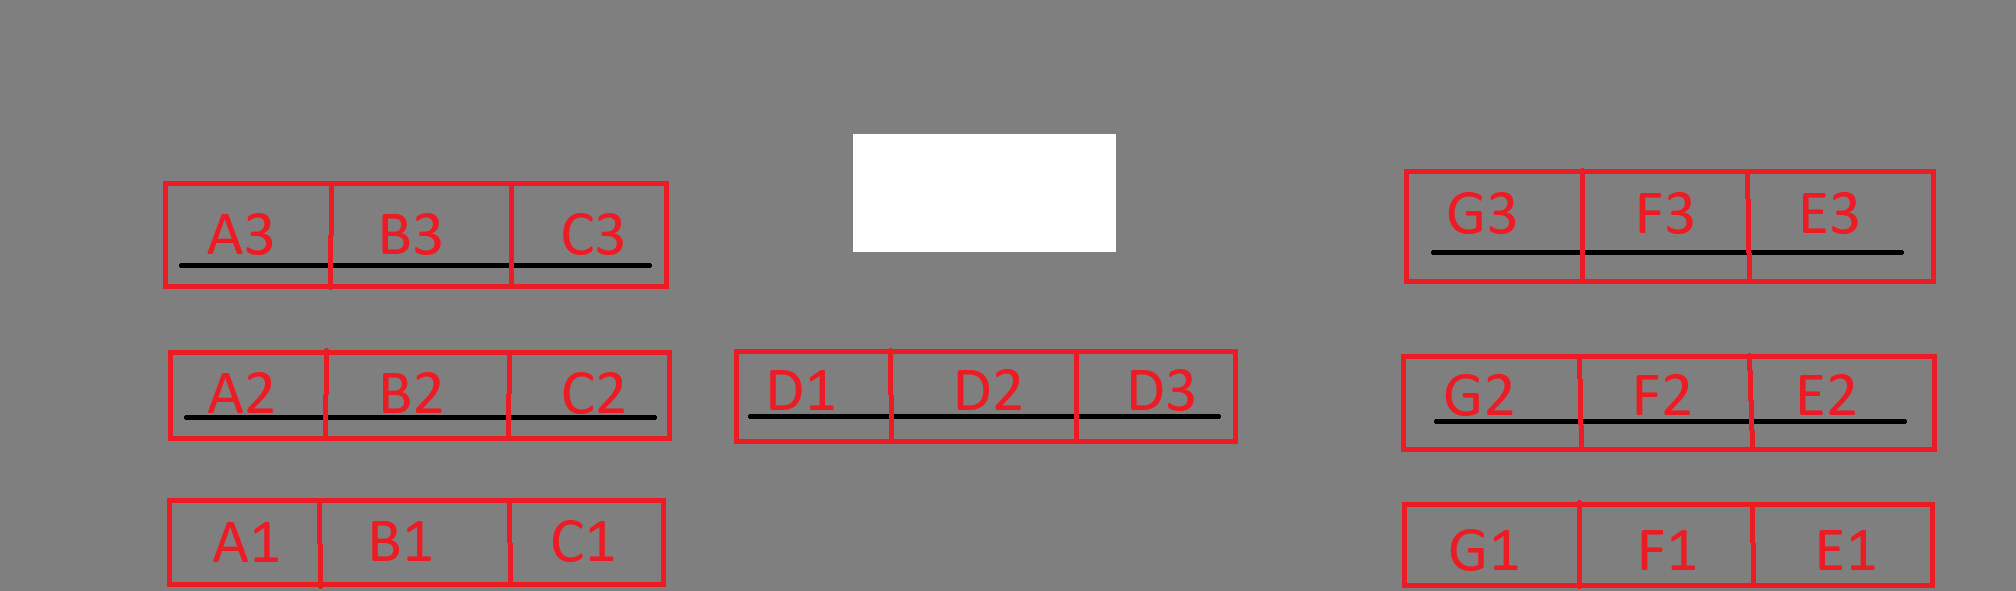
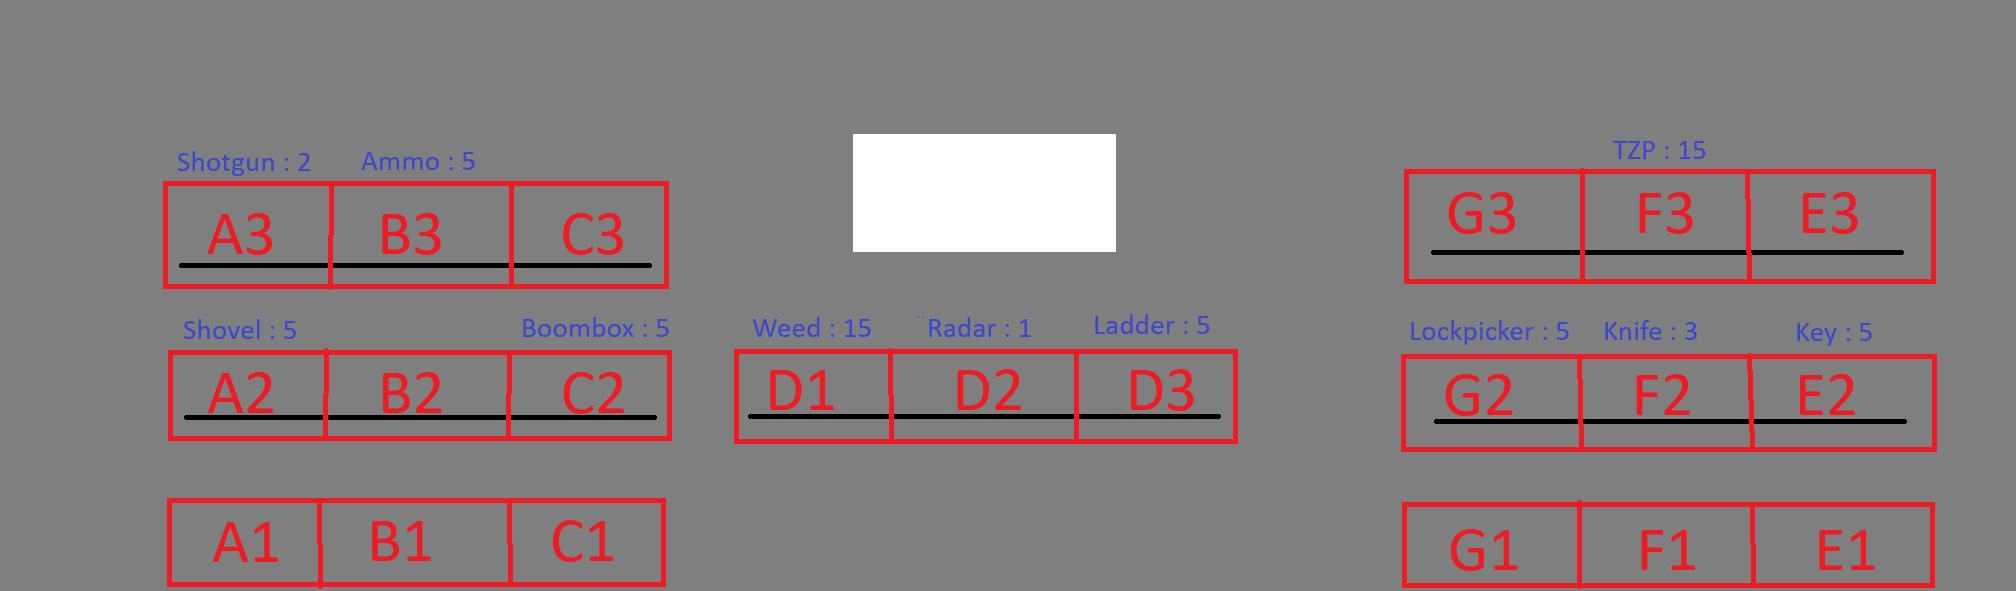
v0.0.7

diff --git a/Patches/CruiserZoneManager.cs b/Patches/CruiserZoneManager.cs
@@ -29,6 +29,17 @@ namespace CruiserLoader.Patches
             CruiserPositions.CreateZones();
             PopulateItemConfig();
             TranslateDictionaries();
+            
+            if (NetworkManager.Singleton != null && NetworkManager.Singleton.IsHost)
+            {
+                if (CruiserLoaderNetworkHandler.Instance == null)
+                {
+                    CruiserLoader.Log.LogInfo("Creating network handler on host...");
+                    GameObject handlerObj = new GameObject("CruiserLoaderNetworkHandler");
+                    UnityEngine.Object.DontDestroyOnLoad(handlerObj);
+                    handlerObj.AddComponent<CruiserLoaderNetworkHandler>();
+                }
+            }
         }
 
         internal static void PopulateItemConfig()
@@ -41,12 +52,22 @@ namespace CruiserLoader.Patches
         { "Kitchen knife",   "F2" },
         { "Shovel",          "A2" },
         { "Shotgun",         "A3" },
-        { "Ammo",            "C3" },
+        { "Ammo",            "B3" },
         { "Weed killer",     "D1" },
         { "Key",             "E2" },
-        { "Extension ladder","C2" },
+        { "Extension ladder","D3" },
         { "Lockpicker",      "G2" },
         { "TZP-Inhalant",    "F3" },
+        { "Boombox",         "C2" },
+    };
+
+            Dictionary<string, int> defaultCounts = new Dictionary<string, int>
+    {
+        { "Radar-booster",   1 },
+        { "Kitchen knife",   3 },
+        { "Shotgun",         2 },
+        { "Weed killer",     15 },
+        { "TZP-Inhalant",    15 },
     };
 
             foreach (Item item in allItemsList)
@@ -55,6 +76,7 @@ namespace CruiserLoader.Patches
                 if (item.itemName == "Binoculars" || item.itemName == "box" || item.itemName == "Mapper") continue;
 
                 string defaultZone = defaultZones.GetValueOrDefault(item.itemName, "");
+                int defaultCount = defaultCounts.GetValueOrDefault(item.itemName, 5);
 
                 ItemZoneConfig[item.itemName] = CruiserLoader.ItemZoneConfig.Bind(
                     "Items",
@@ -66,7 +88,7 @@ namespace CruiserLoader.Patches
                 ItemCountConfig[item.itemName] = CruiserLoader.ItemZoneConfig.Bind(
                     "ItemCounts",
                     item.itemName,
-                    1,
+                    defaultCount,
                     $"How many {item.itemName} to move to cruiser."
                 );
             }
@@ -100,7 +122,7 @@ namespace CruiserLoader.Patches
 
     internal static class CruiserZoneManager
     {
-        internal static void MoveItemsToCruiser(VehicleController cruiser, string? onlyItem = null, int overrideCount = -1)
+        internal static void MoveItemsToCruiser(VehicleController cruiser, string? onlyItem = null, int overrideCount = -1, string? overrideZone = null)
         {
             if (StartOfRound.Instance == null) return;
             var player = GameNetworkManager.Instance?.localPlayerController;
@@ -136,21 +158,30 @@ namespace CruiserLoader.Patches
                 if (!CruiserPositions.PositionsDictionary.TryGetValue(itemName, out Vector3 _)) continue;
 
                 int maxCount;
+                bool countIsMoveAmount = false;
                 if (overrideCount > 0)
+                {
                     maxCount = overrideCount;
+                    countIsMoveAmount = true;
+                }
                 else if (CruiserLoadPatch.ItemCountConfig.TryGetValue(itemName, out var countEntry))
                     maxCount = countEntry.Value;
                 else
                     maxCount = 1;
 
                 int currentlyInCruiser = alreadyInCruiser.GetValueOrDefault(itemName, 0);
-                int stillNeeded = maxCount - currentlyInCruiser;
+                int stillNeeded = countIsMoveAmount ? maxCount : maxCount - currentlyInCruiser;
                 if (stillNeeded <= 0) continue;
 
                 movedCount.TryGetValue(itemName, out int alreadyMoved);
                 if (alreadyMoved >= stillNeeded) continue;
 
-                string zoneName = CruiserLoadPatch.ItemZoneConfig[itemName].Value;
+                string zoneName;
+                if (overrideZone != null)
+                    zoneName = overrideZone;
+                else
+                    zoneName = CruiserLoadPatch.ItemZoneConfig[itemName].Value;
+                
                 Vector3 targetLocalPos = CruiserPositions.GetNextZonePosition(zoneName);
 
                 item.transform.SetParent(cruiser.transform, worldPositionStays: true);
@@ -187,7 +218,142 @@ namespace CruiserLoader.Patches
                 moved++;
             }
 
-            CruiserLoader.Log.LogInfo($"Moved {moved} items to cruiser.");
+            if (onlyItem != null && movedCount.TryGetValue(onlyItem, out int specificCount))
+            {
+                if (overrideZone != null)
+                {
+                    HUDManager.Instance.AddTextToChatOnServer($"[CL] Moved {specificCount} {onlyItem} to {overrideZone}.", -1);
+                    return;
+                }
+                else
+                {
+                    HUDManager.Instance.AddTextToChatOnServer($"[CL] Moved {specificCount} {onlyItem} to cruiser.", -1);
+                    return;
+                }
+            }
+
+            HUDManager.Instance.AddTextToChatOnServer($"[CL] Moved {moved} items to cruiser.", -1);
+        }
+    }
+
+    public class CruiserLoaderNetworkHandler : MonoBehaviour
+    {
+        internal static CruiserLoaderNetworkHandler? Instance { get; private set; }
+        private bool registered;
+
+        private void Awake()
+        {
+            if (Instance != null && Instance != this)
+            {
+                Destroy(gameObject);
+                return;
+            }
+
+            Instance = this;
+        }
+
+        private void OnEnable()
+        {
+            if (registered) return;
+            if (NetworkManager.Singleton == null)
+            {
+                CruiserLoader.Log.LogInfo("[CL] NetworkManager not ready.");
+                return;
+            }
+
+            if (NetworkManager.Singleton.IsHost && NetworkManager.Singleton.CustomMessagingManager != null)
+            {
+                NetworkManager.Singleton.CustomMessagingManager.RegisterNamedMessageHandler("CLC", OnHostCommandReceived);
+                registered = true;
+                CruiserLoader.Log.LogInfo("[CL] Registered CLC handler on host.");
+            }
+            else
+            {
+                CruiserLoader.Log.LogInfo("[CL] CMM unavailable or not host when enabling handler.");
+            }
+        }
+
+        private static void OnHostCommandReceived(ulong clientId, FastBufferReader reader)
+        {
+            if (!NetworkManager.Singleton.IsHost)
+            {
+                CruiserLoader.Log.LogInfo("[CL] Received CLC on non-host, ignoring.");
+                return;
+            }
+
+            reader.ReadValueSafe(out string command);
+            CruiserLoader.Log.LogInfo($"[CL] Received command from client {clientId}: {command}");
+
+            PlayerControllerB player = GameNetworkManager.Instance.localPlayerController;
+            if (player == null) return;
+
+            VehicleController cruiser = UnityEngine.Object.FindObjectOfType<VehicleController>();
+            if (cruiser == null)
+            {
+                CruiserLoader.Log.LogInfo("No cruiser found!");
+                return;
+            }
+
+            ExecuteCommandOnHost(command, player, cruiser);
+        }
+
+        private static void ExecuteCommandOnHost(string chatMessage, PlayerControllerB player, VehicleController cruiser)
+        {
+            string[] parts = chatMessage.Trim().Split(' ');
+
+            if (parts.Length == 1)
+            {
+                CruiserZoneManager.MoveItemsToCruiser(cruiser);
+            }
+            else if (parts.Length == 3)
+            {
+                string itemSearch = parts[1].ToLower();
+                if (!int.TryParse(parts[2], out int count) || count <= 0)
+                    return;
+
+                string? matchedName = null;
+                foreach (var key in CruiserLoadPatch.ItemZoneConfig.Keys)
+                {
+                    if (key.ToLower().Contains(itemSearch))
+                    {
+                        matchedName = key;
+                        break;
+                    }
+                }
+
+                if (matchedName == null)
+                    return;
+
+                CruiserZoneManager.MoveItemsToCruiser(cruiser, matchedName, count);
+            }
+            else if (parts.Length == 4)
+            {
+                string itemSearch = parts[1].ToLower();
+                if (!int.TryParse(parts[2], out int count) || count <= 0)
+                    return;
+
+                string overrideZone = parts[3].ToUpper();
+                if (!CruiserPositions.Zones.ContainsKey(overrideZone))
+                {
+                    HUDManager.Instance.AddTextToChatOnServer($"[CL] Invalid zone: {overrideZone}", -1);
+                    return;
+                }
+
+                string? matchedName = null;
+                foreach (var key in CruiserLoadPatch.ItemZoneConfig.Keys)
+                {
+                    if (key.ToLower().Contains(itemSearch))
+                    {
+                        matchedName = key;
+                        break;
+                    }
+                }
+
+                if (matchedName == null)
+                    return;
+
+                CruiserZoneManager.MoveItemsToCruiser(cruiser, matchedName, count, overrideZone);
+            }
         }
     }
 

diff --git a/Patches/ChatCommands.cs b/Patches/ChatCommands.cs
@@ -1,7 +1,9 @@
 using HarmonyLib;
 using GameNetcodeStuff;
+using Unity.Collections;
 using Unity.Netcode;
 using UnityEngine;
+using System.Collections;
 
 namespace CruiserLoader.Patches
 {
@@ -12,13 +14,7 @@ namespace CruiserLoader.Patches
         public static bool Prefix(string chatMessage)
         {
             if (string.IsNullOrEmpty(chatMessage)) return true;
-            if (!chatMessage.StartsWith("/cload")) return true;
-
-            if (!NetworkManager.Singleton.IsHost)
-            {
-                HUDManager.Instance.AddTextToChatOnServer("Only the host can use /cload.", -1);
-                return false;
-            }
+            if (!chatMessage.StartsWith(".cload")) return true;
 
             PlayerControllerB player = GameNetworkManager.Instance.localPlayerController;
             if (player == null) return false;
@@ -27,9 +23,33 @@ namespace CruiserLoader.Patches
             if (cruiser == null)
             {
                 CruiserLoader.Log.LogInfo("No cruiser found!");
+                HUDManager.Instance.AddTextToChatOnServer("[CL] Buy a cruiser first! BAKA!", -1);
                 return false;
             }
 
+            if (!NetworkManager.Singleton.IsHost)
+            {
+                if (NetworkManager.Singleton.CustomMessagingManager != null)
+                {
+                    using var writer = new FastBufferWriter(512, Allocator.Temp);
+                    writer.WriteValueSafe(chatMessage);
+                    CruiserLoader.Log.LogInfo($"Sending command to host: {chatMessage}");
+                    NetworkManager.Singleton.CustomMessagingManager.SendNamedMessage("CLC", NetworkManager.ServerClientId, writer);
+                }
+                else
+                {
+                    HUDManager.Instance.AddTextToChatOnServer("[CL] Host does not have CL installed!", -1);
+                }
+
+                return false;
+            }
+
+            ExecuteCommand(chatMessage, player, cruiser);
+            return false;
+        }
+
+        private static void ExecuteCommand(string chatMessage, PlayerControllerB player, VehicleController cruiser)
+        {
             string[] parts = chatMessage.Trim().Split(' ');
 
             if (parts.Length == 1)
@@ -40,8 +60,35 @@ namespace CruiserLoader.Patches
             {
                 string itemSearch = parts[1].ToLower();
                 if (!int.TryParse(parts[2], out int count) || count <= 0)
-                    return false;
+                    return;
                 
+                string? matchedName = null;
+                foreach (var key in CruiserLoadPatch.ItemZoneConfig.Keys)
+                {
+                    if (key.ToLower().Contains(itemSearch))
+                    {
+                        matchedName = key;
+                        break;
+                    }
+                }
+
+                if (matchedName == null)
+                    return;
+                
+                CruiserZoneManager.MoveItemsToCruiser(cruiser, matchedName, count);
+            }
+            else if (parts.Length == 4)
+            {
+                string itemSearch = parts[1].ToLower();
+                if (!int.TryParse(parts[2], out int count) || count <= 0)
+                    return;
+
+                string overrideZone = parts[3].ToUpper();
+                if (!CruiserPositions.Zones.ContainsKey(overrideZone))
+                {
+                    HUDManager.Instance.AddTextToChatOnServer($"[CL] Invalid zone: {overrideZone}", -1);
+                    return;
+                }
 
                 string? matchedName = null;
                 foreach (var key in CruiserLoadPatch.ItemZoneConfig.Keys)
@@ -54,12 +101,10 @@ namespace CruiserLoader.Patches
                 }
 
                 if (matchedName == null)
-                    return false;
+                    return;
                 
-                CruiserZoneManager.MoveItemsToCruiser(cruiser, matchedName, count);
+                CruiserZoneManager.MoveItemsToCruiser(cruiser, matchedName, count, overrideZone);
             }
-
-            return false;
         }
     }
 }
